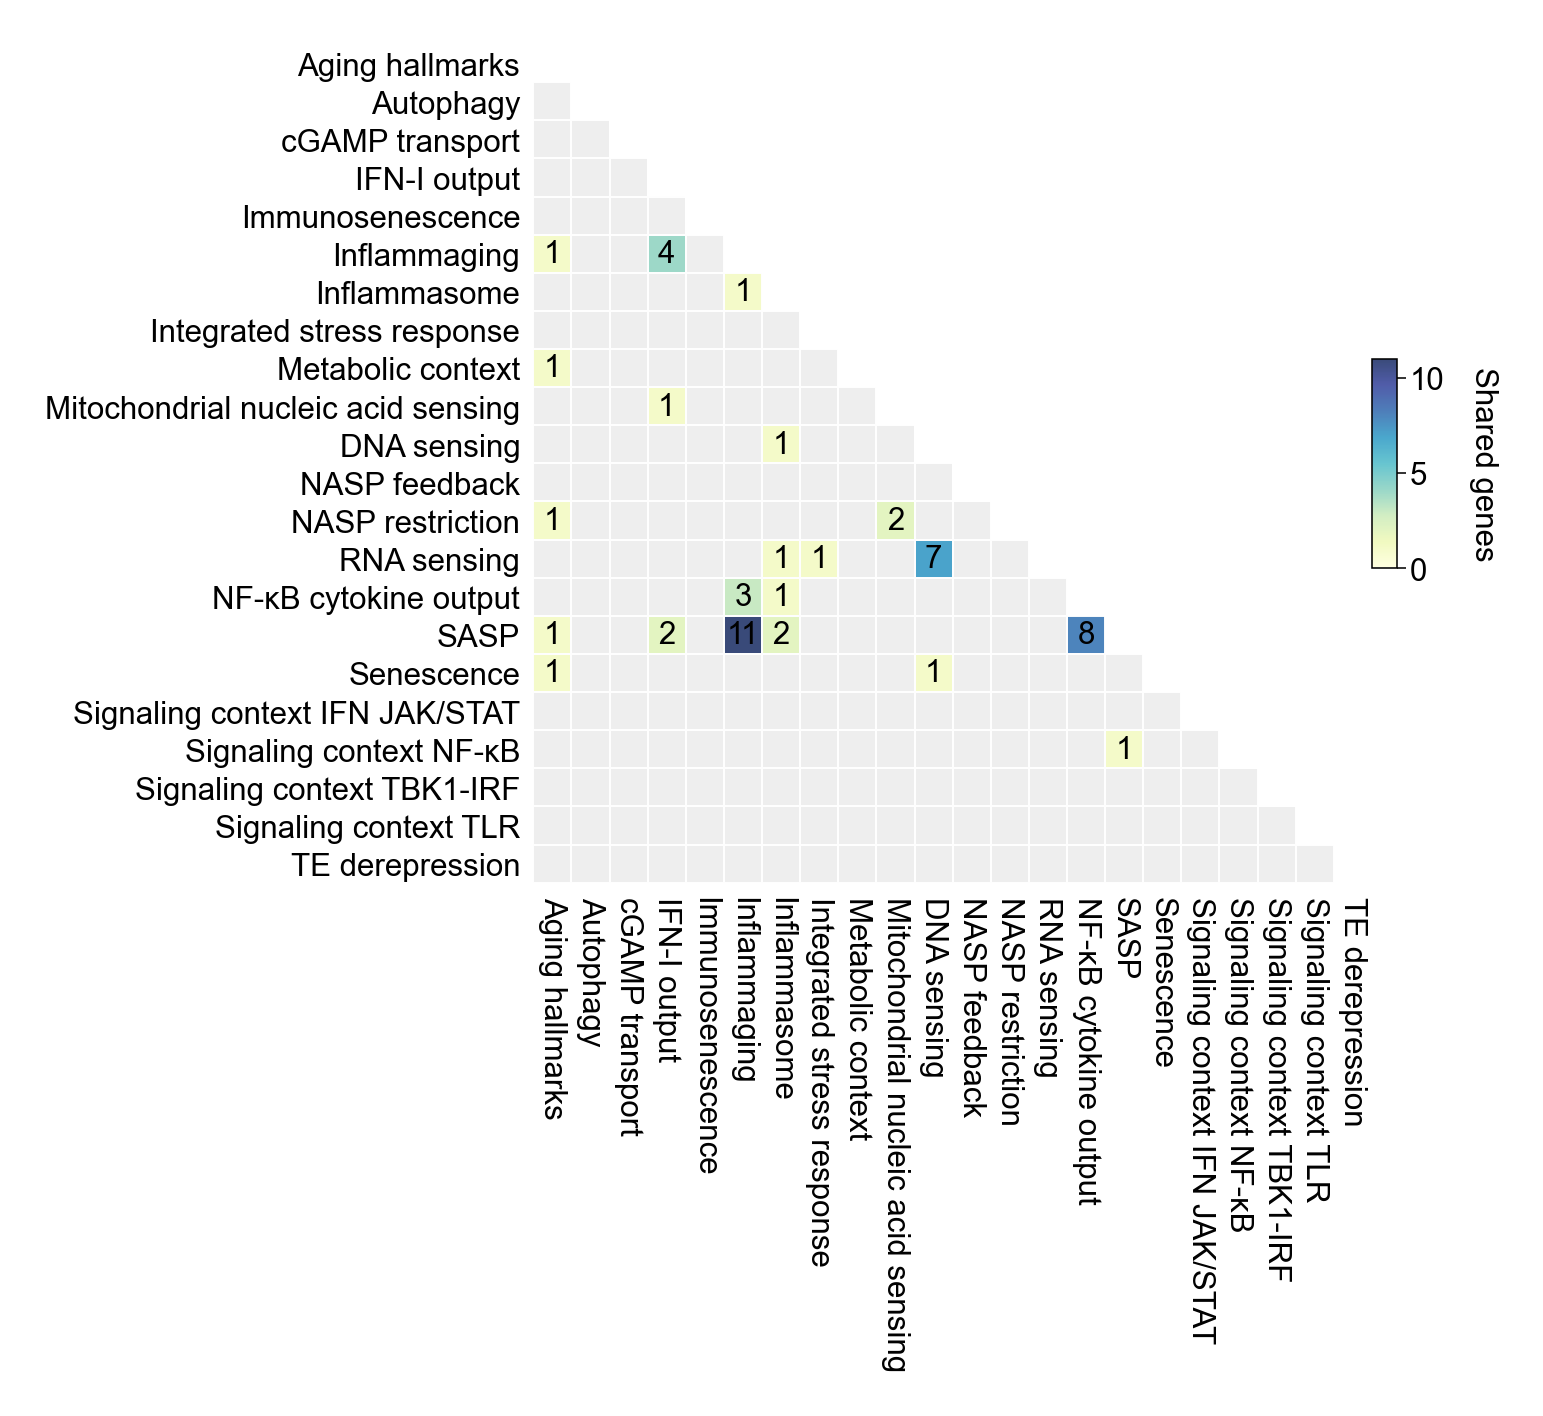
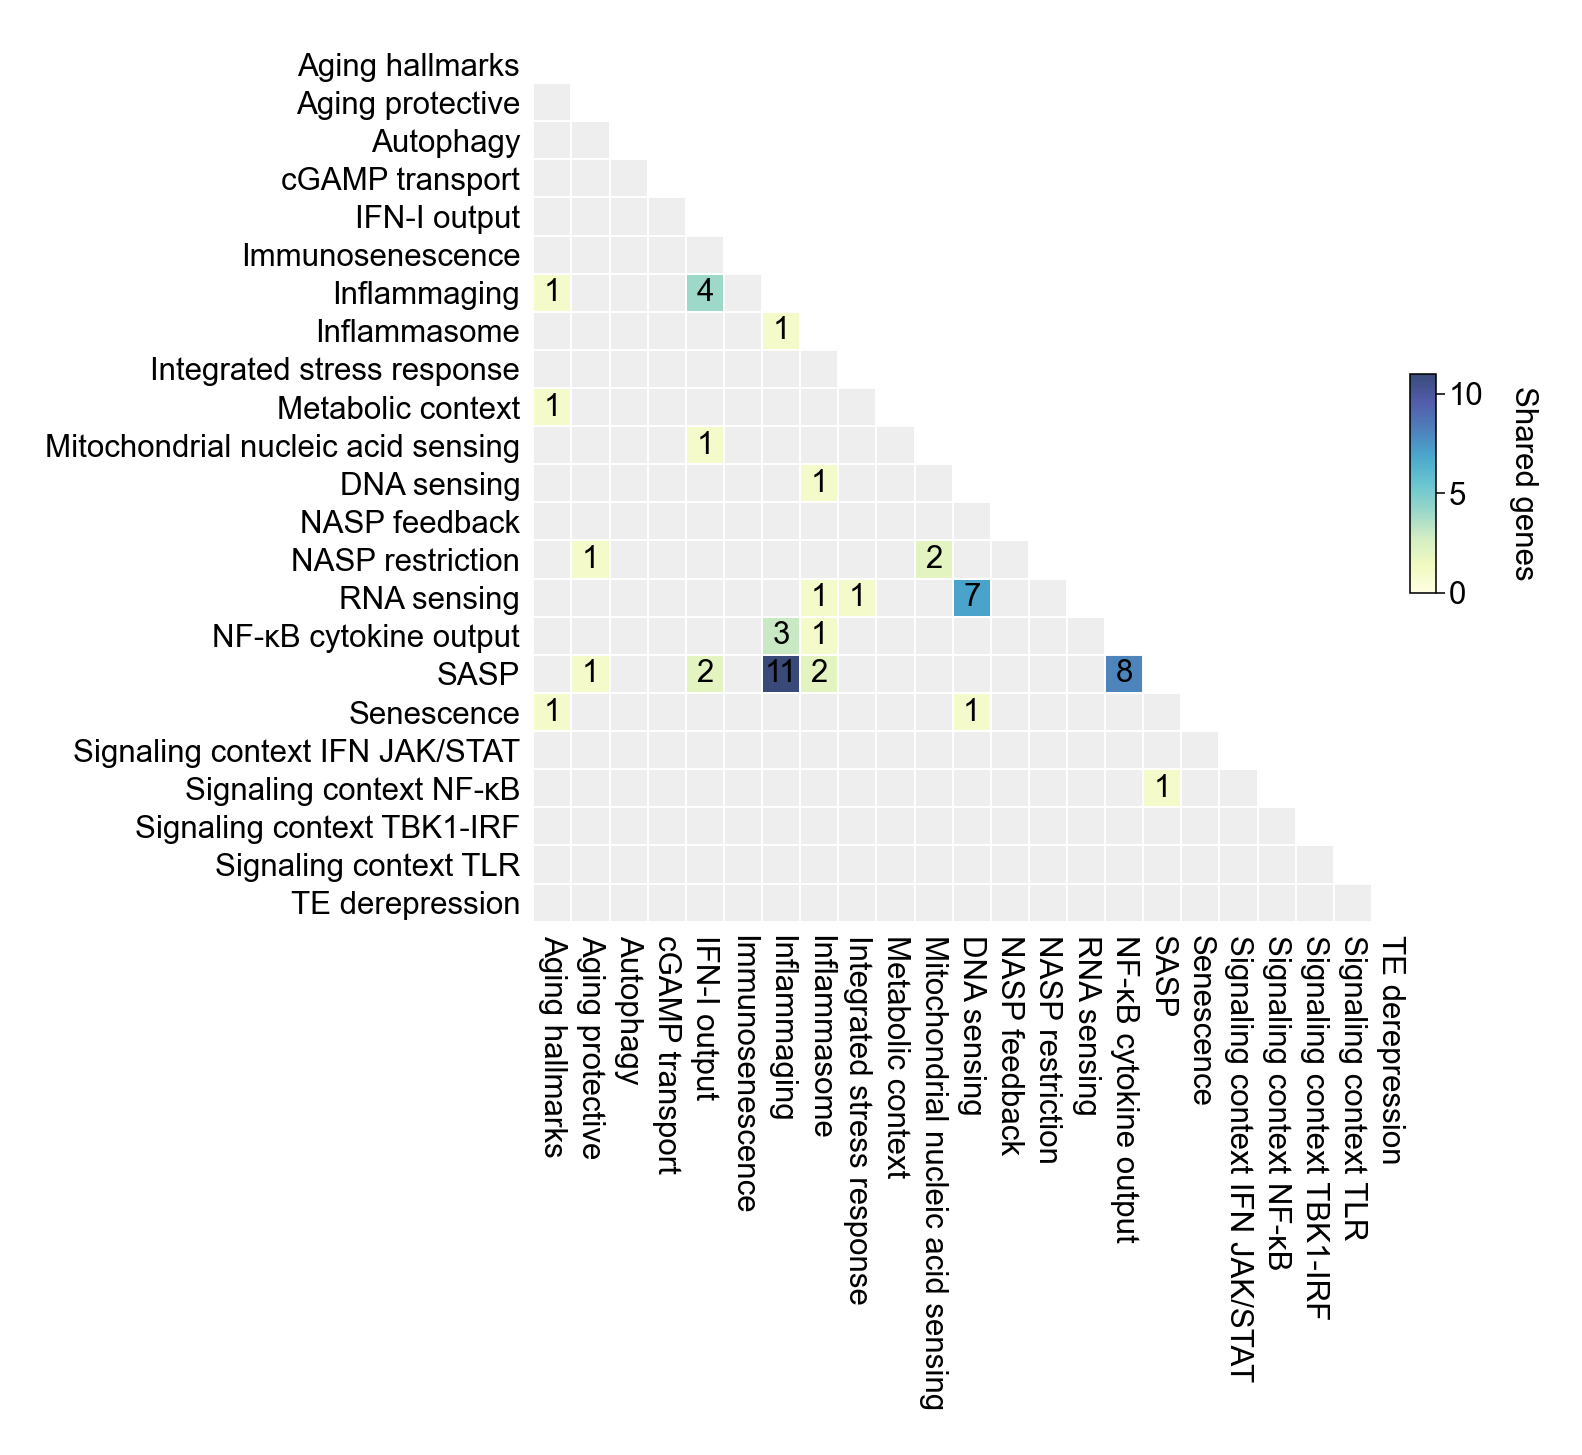
[Fix] Split aging hallmarks in hallmarks and protective modules

diff --git a/docs/marker_genes/aging_hallmarks.md b/docs/marker_genes/aging_hallmarks.md
@@ -4,28 +4,11 @@
 
 | Gene | Module Class | Sensor Family | Activation Tier | Scoring Direction | Cell Type Breadth | Detectability | Also in Module(s) | DOI | Aliases | Is_Sensor | Panel Source |
 | --- | --- | --- | --- | --- | --- | --- | --- | --- | --- | --- | --- |
-| VEGFA | angiogenic |  | Post-NASP | inverse | Broad | high |  | [10.1126/science.abc8479](https://doi.org/10.1126/science.abc8479) | VEGF |  |  |
-| KL | endocrine_longevity |  | Post-NASP | inverse | Kidney-enriched | low |  | [10.1038/36285](https://doi.org/10.1038/36285) | Klotho |  |  |
-| BANF1 | genome_maintenance |  | Post-NASP | inverse | Broad | high |  | [10.1016/j.cell.2022.11.001](https://doi.org/10.1016/j.cell.2022.11.001) |  |  |  |
-| BUB1B | genome_maintenance |  | Post-NASP | inverse | Broad | low |  | [10.15252/embj.201386907](https://doi.org/10.15252/embj.201386907) |  |  |  |
-| LMNA | genome_maintenance |  | Post-NASP | inverse | Broad | high |  | [10.1016/j.cell.2022.11.001](https://doi.org/10.1016/j.cell.2022.11.001) |  |  |  |
-| PIN1 | genome_maintenance |  | Post-NASP | inverse | Broad | medium |  | [10.1016/j.celrep.2021.109694](https://doi.org/10.1016/j.celrep.2021.109694) |  |  |  |
-| SIRT1 | genome_maintenance |  | Post-NASP | inverse | Broad | low |  | [10.1080/00207454.2022.2057849](https://doi.org/10.1080/00207454.2022.2057849) |  |  |  |
-| SIRT6 | genome_maintenance |  | Post-NASP | inverse | Broad | low |  | [10.1016/j.cell.2019.03.043](https://doi.org/10.1016/j.cell.2019.03.043) |  |  |  |
-| SIRT7 | genome_maintenance |  | Post-NASP | inverse | Broad | low |  | [10.1080/00207454.2022.2057849](https://doi.org/10.1080/00207454.2022.2057849) |  |  |  |
-| TERT | genome_maintenance |  | Post-NASP | inverse | Broad | low |  | [10.1016/j.cell.2008.09.034](https://doi.org/10.1016/j.cell.2008.09.034) |  |  |  |
-| WRN | genome_maintenance |  | Post-NASP | inverse | Broad | medium |  | [10.1021/bi0266986](https://doi.org/10.1021/bi0266986) |  |  |  |
-| ZMPSTE24 | genome_maintenance |  | Post-NASP | inverse | Broad | medium |  | [10.1083/jcb.200801096](https://doi.org/10.1083/jcb.200801096) |  |  |  |
-| SIRT3 | mitochondrial_maintenance |  | Post-NASP | inverse | Broad | low |  | [10.1016/j.celrep.2013.01.005](https://doi.org/10.1016/j.celrep.2013.01.005) |  |  |  |
 | GHR | nutrient_sensing |  | Post-NASP | positive | Liver/Broad | high |  | [10.1111/acel.13506](https://doi.org/10.1111/acel.13506) |  |  |  |
 | IGF1R | nutrient_sensing |  | Post-NASP | positive | Broad | high |  | [10.1016/j.cell.2022.11.001](https://doi.org/10.1016/j.cell.2022.11.001) |  |  |  |
 | MTOR | nutrient_sensing |  | Post-NASP | context_dependent | Broad | medium |  | [10.1038/nature08221](https://doi.org/10.1038/nature08221) |  |  |  |
-| FOXO3 | proteostasis |  | Post-NASP | inverse | Broad | high |  | [10.1093/gerona/glab378](https://doi.org/10.1093/gerona/glab378) |  |  |  |
-| LAMP2 | proteostasis |  | Post-NASP | inverse | Broad | high |  | [10.1038/s41586-020-03129-z](https://doi.org/10.1038/s41586-020-03129-z) | LAMP2A |  |  |
 | CDKN1A | senescence_driver |  | Post-NASP | positive | Broad | high |  | [10.1038/s41586-026-10542-3](https://doi.org/10.1038/s41586-026-10542-3) |  |  |  |
 | GPNMB | senescence_driver |  | Post-NASP | positive | Immune-enriched | high |  | [10.1038/s41586-026-10542-3](https://doi.org/10.1038/s41586-026-10542-3) |  |  |  |
 | KAT7 | senescence_driver |  | Post-NASP | positive | Broad | medium |  | [10.1126/scitranslmed.abd2655](https://doi.org/10.1126/scitranslmed.abd2655) |  |  |  |
 | COL1A1 | tissue_remodeling |  | Post-NASP | positive | Fibroblast-enriched | high |  | [10.1038/s41586-026-10542-3](https://doi.org/10.1038/s41586-026-10542-3) |  |  |  |
-| COL3A1 | tissue_remodeling |  | Post-NASP | inverse | Fibroblast-enriched | high |  | [10.1038/s41586-026-10542-3](https://doi.org/10.1038/s41586-026-10542-3) |  |  |  |
-| EDA2R | tissue_remodeling |  | Post-NASP | inverse | Broad | low |  | [10.1038/s41586-026-10542-3](https://doi.org/10.1038/s41586-026-10542-3) |  |  |  |
 | NREP | tissue_remodeling |  | Post-NASP | positive | Broad | high |  | [10.1038/s41586-026-10542-3](https://doi.org/10.1038/s41586-026-10542-3) |  |  |  |

diff --git a/docs/marker_genes/aging_protective.md b/docs/marker_genes/aging_protective.md
@@ -1,0 +1,23 @@
+# Aging protective
+
+![Aging protective taxonomy](assets/sankey_aging_protective.png)
+
+| Gene | Module Class | Sensor Family | Activation Tier | Scoring Direction | Cell Type Breadth | Detectability | Also in Module(s) | DOI | Aliases | Is_Sensor | Panel Source |
+| --- | --- | --- | --- | --- | --- | --- | --- | --- | --- | --- | --- |
+| VEGFA | angiogenic |  | Post-NASP | positive | Broad | high |  | [10.1126/science.abc8479](https://doi.org/10.1126/science.abc8479) | VEGF |  |  |
+| KL | endocrine_longevity |  | Post-NASP | positive | Kidney-enriched | low |  | [10.1038/36285](https://doi.org/10.1038/36285) | Klotho |  |  |
+| BANF1 | genome_maintenance |  | Post-NASP | positive | Broad | high |  | [10.1016/j.cell.2022.11.001](https://doi.org/10.1016/j.cell.2022.11.001) |  |  |  |
+| BUB1B | genome_maintenance |  | Post-NASP | positive | Broad | low |  | [10.15252/embj.201386907](https://doi.org/10.15252/embj.201386907) |  |  |  |
+| LMNA | genome_maintenance |  | Post-NASP | positive | Broad | high |  | [10.1016/j.cell.2022.11.001](https://doi.org/10.1016/j.cell.2022.11.001) |  |  |  |
+| PIN1 | genome_maintenance |  | Post-NASP | positive | Broad | medium |  | [10.1016/j.celrep.2021.109694](https://doi.org/10.1016/j.celrep.2021.109694) |  |  |  |
+| SIRT1 | genome_maintenance |  | Post-NASP | positive | Broad | low |  | [10.1080/00207454.2022.2057849](https://doi.org/10.1080/00207454.2022.2057849) |  |  |  |
+| SIRT6 | genome_maintenance |  | Post-NASP | positive | Broad | low |  | [10.1016/j.cell.2019.03.043](https://doi.org/10.1016/j.cell.2019.03.043) |  |  |  |
+| SIRT7 | genome_maintenance |  | Post-NASP | positive | Broad | low |  | [10.1080/00207454.2022.2057849](https://doi.org/10.1080/00207454.2022.2057849) |  |  |  |
+| TERT | genome_maintenance |  | Post-NASP | positive | Broad | low |  | [10.1016/j.cell.2008.09.034](https://doi.org/10.1016/j.cell.2008.09.034) |  |  |  |
+| WRN | genome_maintenance |  | Post-NASP | positive | Broad | medium |  | [10.1021/bi0266986](https://doi.org/10.1021/bi0266986) |  |  |  |
+| ZMPSTE24 | genome_maintenance |  | Post-NASP | positive | Broad | medium |  | [10.1083/jcb.200801096](https://doi.org/10.1083/jcb.200801096) |  |  |  |
+| SIRT3 | mitochondrial_maintenance |  | Post-NASP | positive | Broad | low |  | [10.1016/j.celrep.2013.01.005](https://doi.org/10.1016/j.celrep.2013.01.005) |  |  |  |
+| FOXO3 | proteostasis |  | Post-NASP | positive | Broad | high |  | [10.1093/gerona/glab378](https://doi.org/10.1093/gerona/glab378) |  |  |  |
+| LAMP2 | proteostasis |  | Post-NASP | positive | Broad | high |  | [10.1038/s41586-020-03129-z](https://doi.org/10.1038/s41586-020-03129-z) | LAMP2A |  |  |
+| COL3A1 | tissue_remodeling |  | Post-NASP | positive | Fibroblast-enriched | high |  | [10.1038/s41586-026-10542-3](https://doi.org/10.1038/s41586-026-10542-3) |  |  |  |
+| EDA2R | tissue_remodeling |  | Post-NASP | positive | Broad | low |  | [10.1038/s41586-026-10542-3](https://doi.org/10.1038/s41586-026-10542-3) |  |  |  |

diff --git a/docs/marker_genes/README.md b/docs/marker_genes/README.md
@@ -7,6 +7,7 @@
 ## Modules
 
 - [Aging hallmarks](aging_hallmarks.md)
+- [Aging protective](aging_protective.md)
 - [Autophagy](autophagy.md)
 - [cGAMP transport](cgamp_transport.md)
 - [IFN-I output](ifn_i_output.md)
